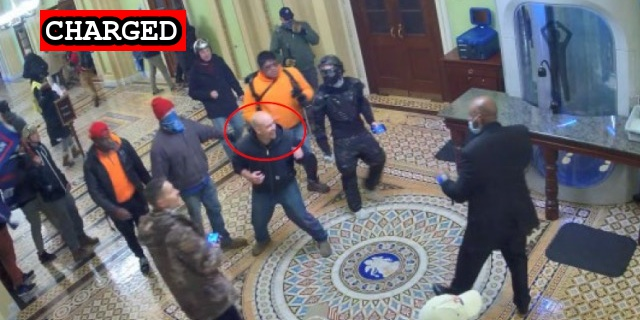
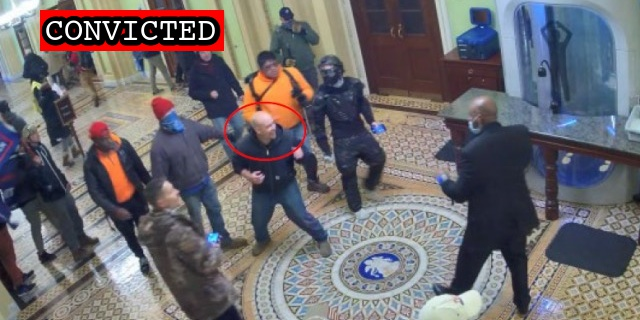
New conviction

Changed region(s): [[0.0625, 0.0312, 0.375, 0.1875]]

diff --git a/docs/_suspects/jacob-clark.md b/docs/_suspects/jacob-clark.md
@@ -4,18 +4,18 @@ lastName: Clark
 hashtag: JacobClark
 aka:
 residence: Colorado
-status: Charged
+status: Convicted
 date: 2021-04-21
 charged: 2021-04-21
 indicted:
-convicted:
+convicted: 2023-01-30
 acquitted:
 sentenced:
 dismissed:
 deceased:
 plea_hearing:
 trial_date: 2023-01-30
-trial_type: Bench Trial
+trial_type: Stipulated Bench Trial
 jury_selection:
 sentencing: 2023-05-08
 status_conference:
@@ -32,7 +32,7 @@ raid:
 perpwalk:
 quote:
 title: Jacob Clark arrested on April 21, 2021
-description: Click for latest case details. Suspects innocent until proven guilty.
+description: Convicted on January 30, 2023. Click for latest case details.
 author: seditiontrack
 layout: suspect
 published: true
@@ -41,8 +41,34 @@ caseName: USA v. CLARK
 judge: Dabney L. Friedrich
 videos:
 charges:
+  - code: 18 USC § 1752(a)(1)
+    title: Entering a restricted building or grounds
+    url: https://www.law.cornell.edu/uscode/text/18/1752
+    felony: false
+  - code: 18 USC § 1752(a)(2)
+    title: Disorderly and disruptive conduct in a restricted building or grounds
+    url: https://www.law.cornell.edu/uscode/text/18/1752
+    felony: false
+  - code: 18 USC § 1752(a)(4)
+    title: Engaging in physitical violence in a restricted building
+    url: https://www.law.cornell.edu/uscode/text/18/1752
+    felony: false
+  - code: 40 USC § 5104(e)(2)
+    title: Violent Entry and Disorderly Conduct on Capitol Grounds
+    url: https://www.law.cornell.edu/uscode/text/40/5104
+    felony: false
+  - code: 18 USC § 231(a)(3)
+    title: Obstruction of Law Enforcement During Civil Disorder
+    url: https://www.law.cornell.edu/uscode/text/18/231
+    felony: true
+  - code: 18 USC § 1512(c)(2),2
+    title: Obstruction of an Official Proceeding (Aiding and Abetting)
+    url: https://www.law.cornell.edu/uscode/text/18/1512
+    felony: true
 sentence:
 ---
+
 - [News Report](https://denver.cbslocal.com/2021/04/23/jacob-clark-colorado-us-capitol-riot-arrest-federal-charges/)
 - [Complaint](https://www.justice.gov/usao-dc/case-multi-defendant/file/1391106/download)
 - [Statement of Facts](https://www.justice.gov/usao-dc/case-multi-defendant/file/1391111/download)
+- [Statement of Offense](https://storage.courtlistener.com/recap/gov.uscourts.dcd.234918/gov.uscourts.dcd.234918.43.0.pdf)
